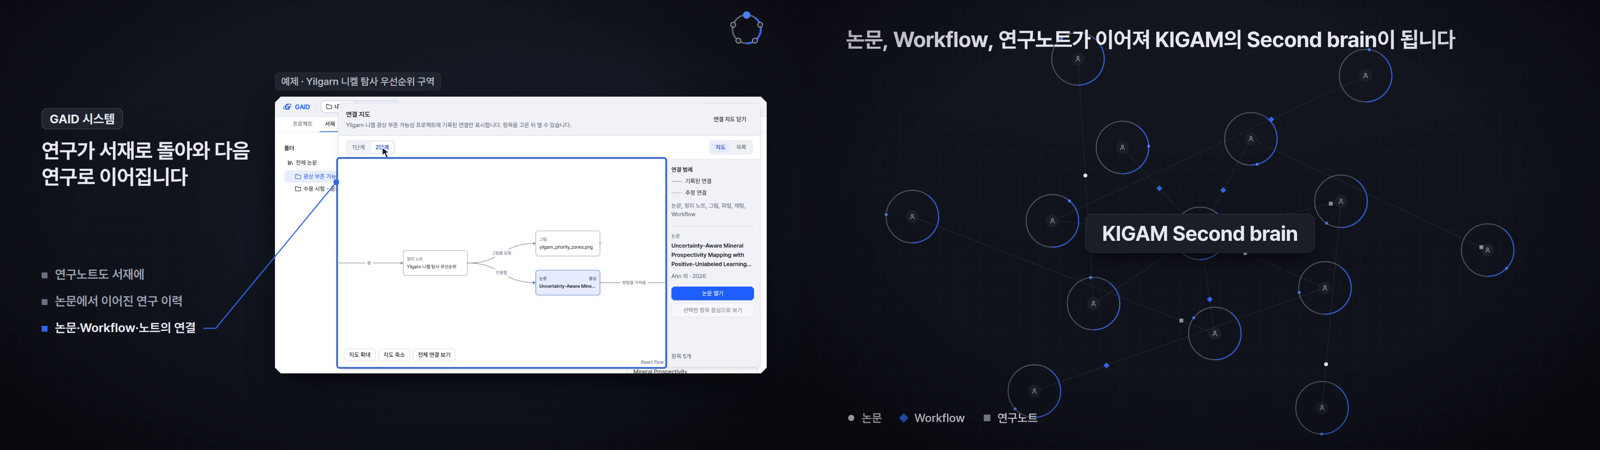
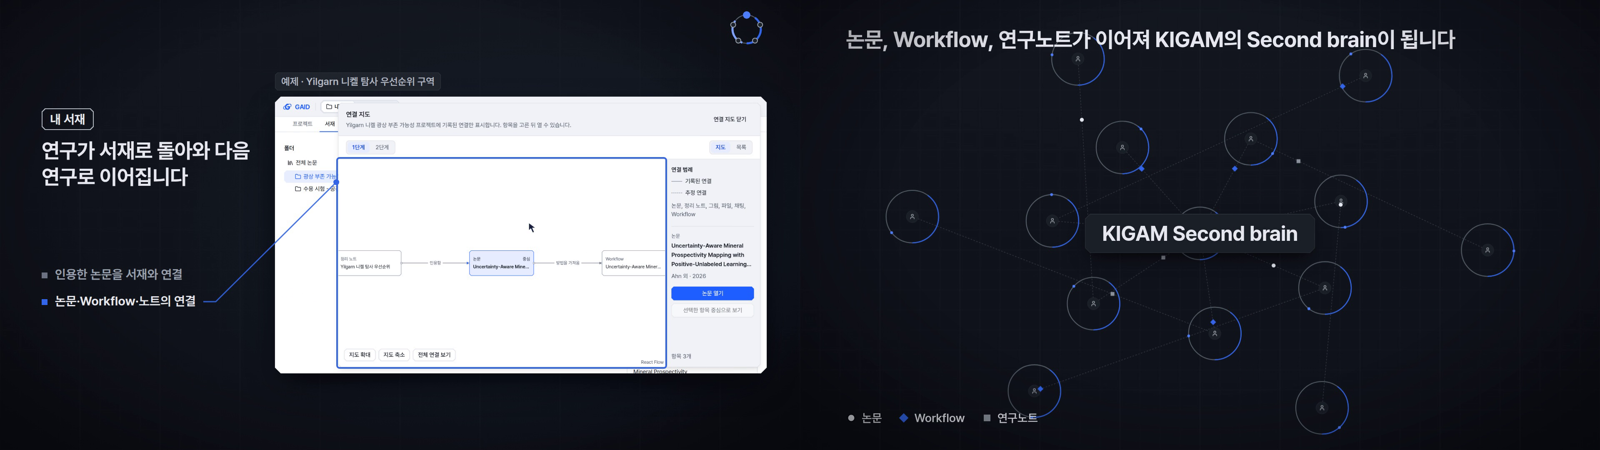
gaid-promo-video-v4-lemo: round-3 report, figures, registry, README; section draft merged into report

diff --git a/geo/promo-lemo/README.md b/geo/promo-lemo/README.md
@@ -1,6 +1,6 @@
 # GAID promo film, lemo edition
 
-Task `gaid-promo-video-v4-lemo`: v4's message (geo/promo/) rebuilt in the lemo-opuscar **Dark Tech Keynote** style, ~102 s,
+Task `gaid-promo-video-v4-lemo`: v4's message (geo/promo/) rebuilt in the lemo-opuscar **Dark Tech Keynote** style, ~103 s,
 1920×1080, 30 fps, stereo music and sound effects, no narration; internal review only, alongside v4. Treatment and cue map:
 `TREATMENT.md`. Third-party material: `CREDITS`. The 40 s fully code-drawn film of the same task is `geo/promo-lemo-40/`.
 
@@ -8,16 +8,21 @@ Task `gaid-promo-video-v4-lemo`: v4's message (geo/promo/) rebuilt in the lemo-o
 |---|---|
 | `scene/` | The film as one page (lemo page contract: `DUR`, async `render(t)`, `READY`, `EV`, `CUES`, `TEXTS`) |
 | `render.py` | Stills, `events.json`, reading check, and the silent picture (Chrome frame by frame → H.264, imageio-ffmpeg) |
+| `pointer_track.py` | Finds the drawn capture pointer in every frame; boxes are shown only while the pointer is in their region |
+| `capture/` | Live AI agent capture scripts (child unit agent-capture; capture-v6 outside Git) |
 | `mix.py` | Original score (VCSL samples through lemo's sampler) + procedural foley on the film's events → `mix.wav` |
 | `master.py` | Two-pass loudnorm to −14 LUFS, AAC, picture copied; loudness and black-frame report (`master.json`) |
 
 Real takes are shown whole at one scale inside windows of the motion graphics (no zoom or scroll inside a take; user feedback
-2026-10-23 and 2026-10-24). `p` = PGI example (포천, capture-v3), `y` = Yilgarn example (capture-v2).
+2026-10-23 and 2026-10-24). `p` = PGI example (포천, capture-v3), `y` / `v` = Yilgarn example (capture-v2 / capture-v5),
+`g` = live AI agent run (capture-v6, per-shot fps; AG2 played 3× and marked 빠르게 보기). A box appears only while the drawn
+capture pointer is inside its region (round 3, user feedback 2026-10-24).
 
 ```sh
 D=~/data/geoaidesk/work; O=<new output dir>
-uv run --no-project --with playwright==1.63.0 --with imageio-ffmpeg==0.6.0 --with pillow==12.3.0 \
-  python geo/promo-lemo/render.py --capture $D/gaid-promo-video-v3/capture-v3 --capture-y $D/gaid-promo-video-v2/capture-v2 --out $O
+uv run --no-project --with playwright==1.63.0 --with imageio-ffmpeg==0.6.0 --with pillow==12.3.0 --with numpy==2.3.4 \
+  python geo/promo-lemo/render.py --capture $D/gaid-promo-video-v3/capture-v3 --capture-y $D/gaid-promo-video-v2/capture-v2 \
+  --capture-v $D/gaid-promo-video-v5/capture-v5 --capture-g $D/gaid-promo-video-v4-lemo--agent-capture/capture-v6 --out $O
 uv run --no-project --with numpy==2.3.4 --with scipy==1.16.3 --with soundfile==0.13.1 --with soxr==1.0.0 \
   python geo/promo-lemo/mix.py --events $O/events.json --out $O
 uv run --no-project --with imageio-ffmpeg==0.6.0 python geo/promo-lemo/master.py --picture $O/picture.mp4 --mix $O/mix.wav \

diff --git a/docs/tasks/gaid-promo-video-v4-lemo.md b/docs/tasks/gaid-promo-video-v4-lemo.md
@@ -1,7 +1,7 @@
 ---
 format: 1
 status: active
-updated: 2026-10-24T06:39:57Z
+updated: 2026-10-24T06:40:09Z
[1 lines of base64/hex data omitted]
 branch: task/gaid-promo-video-v4-lemo
 target: main
